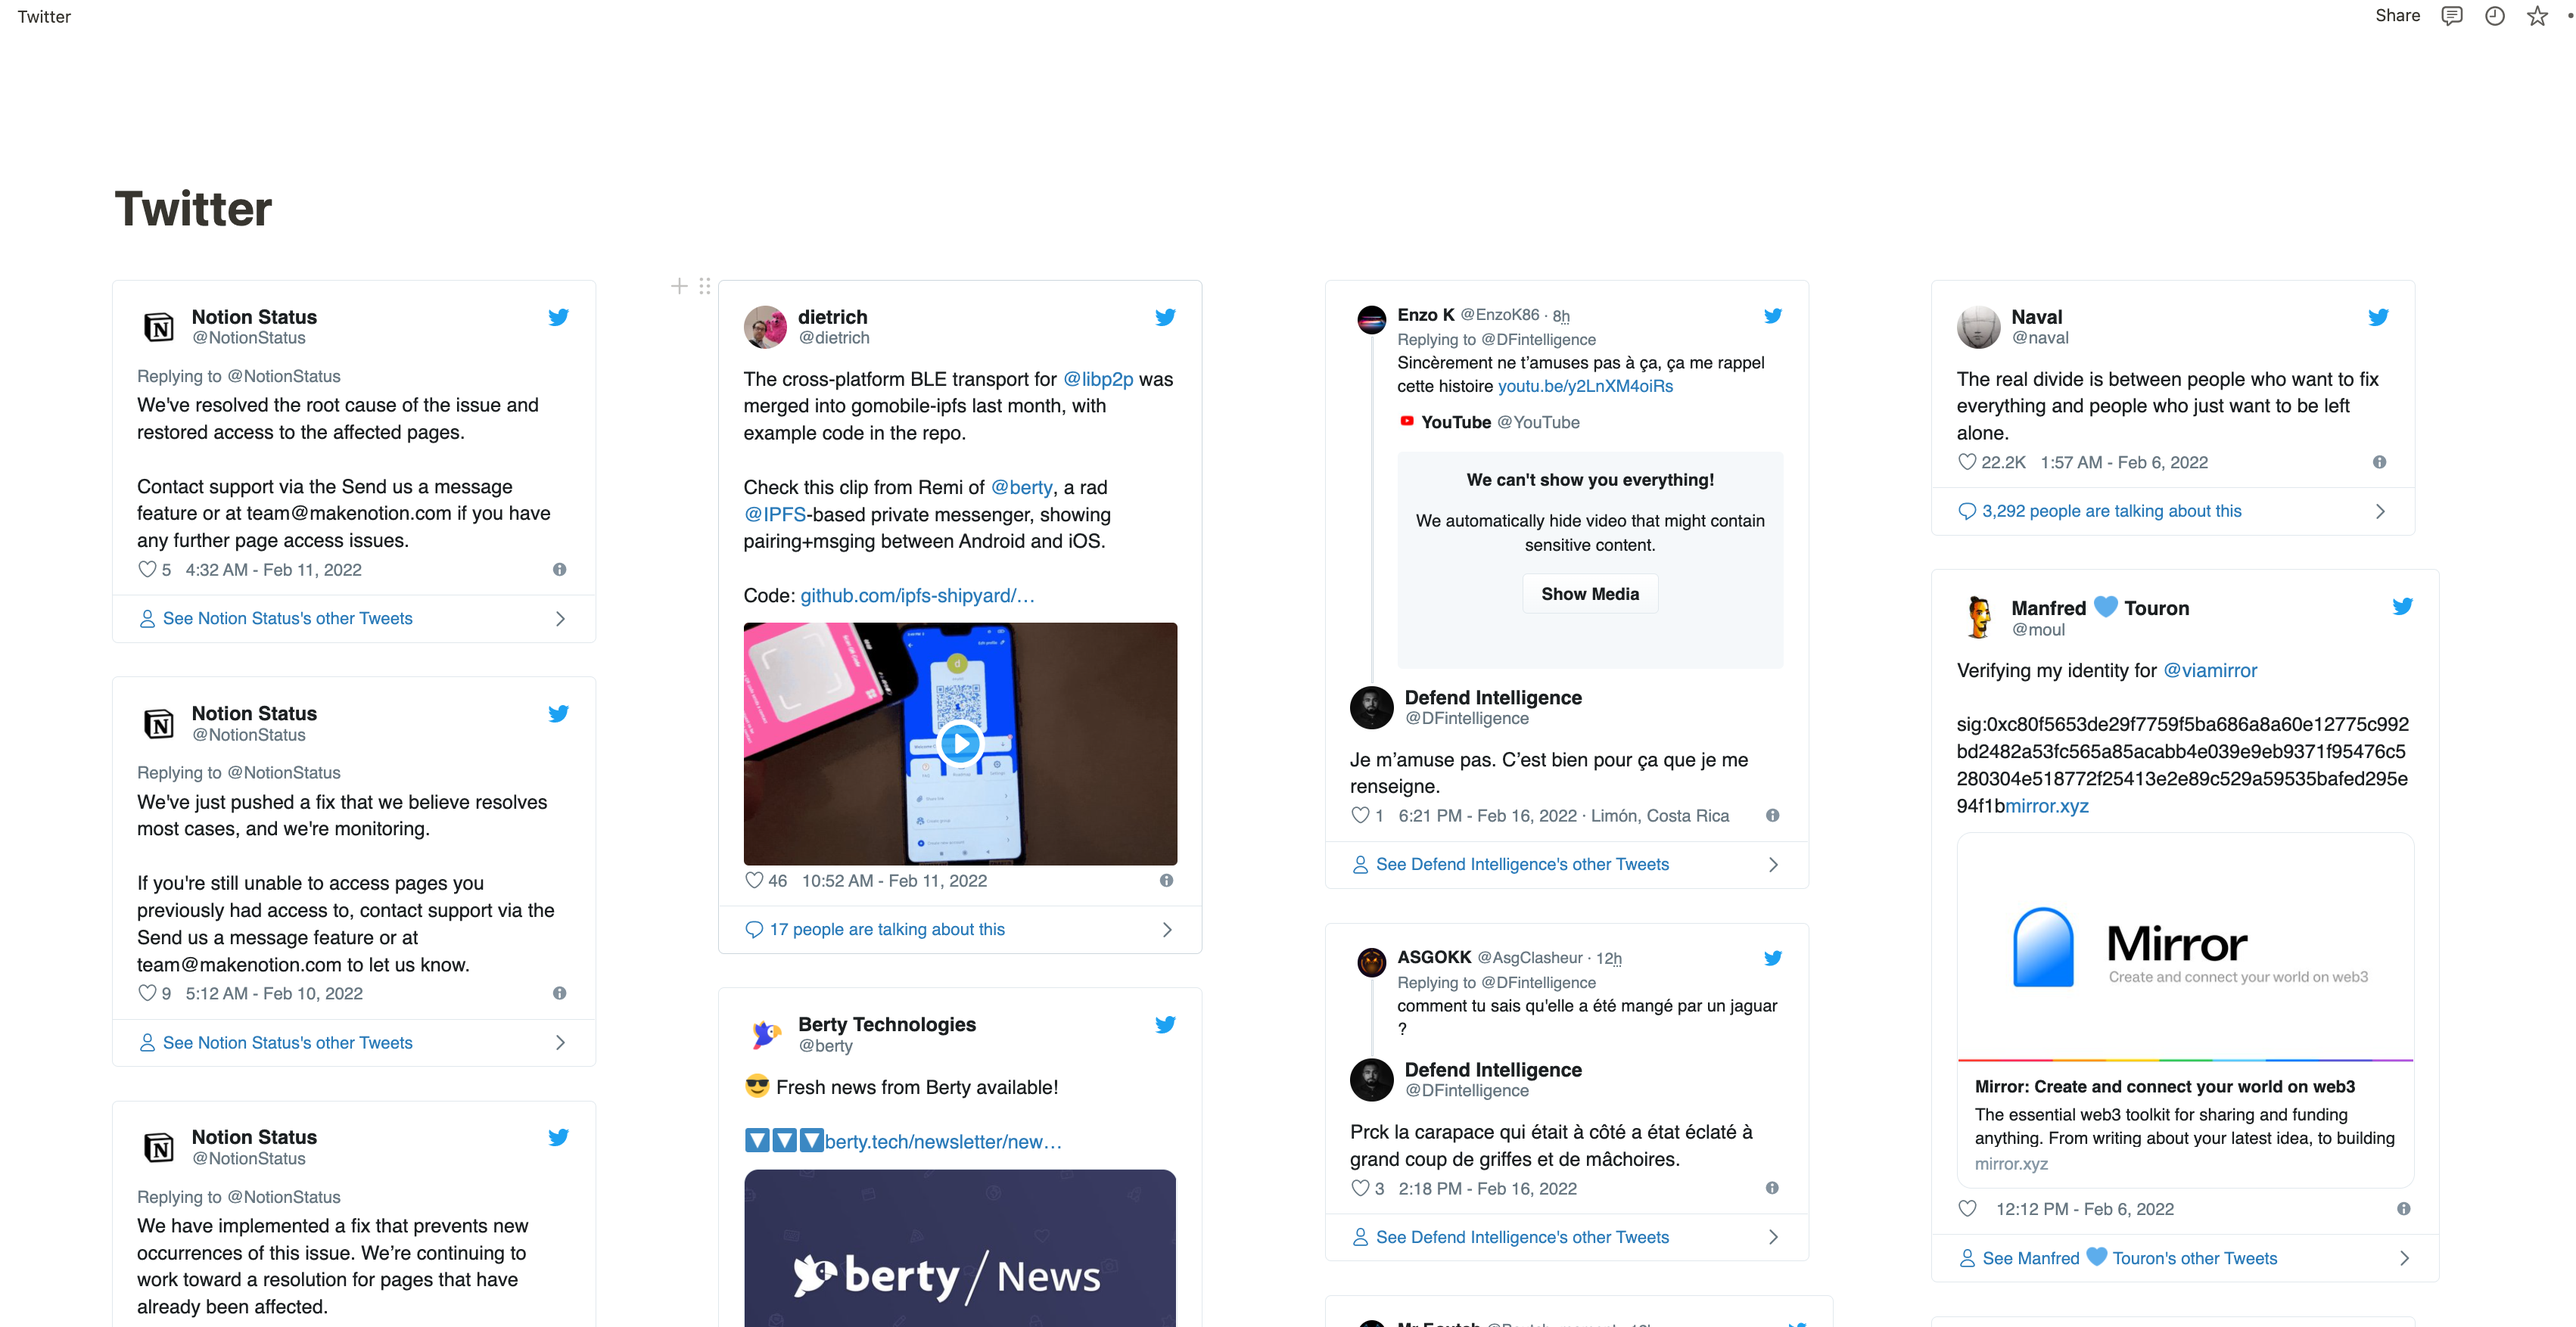
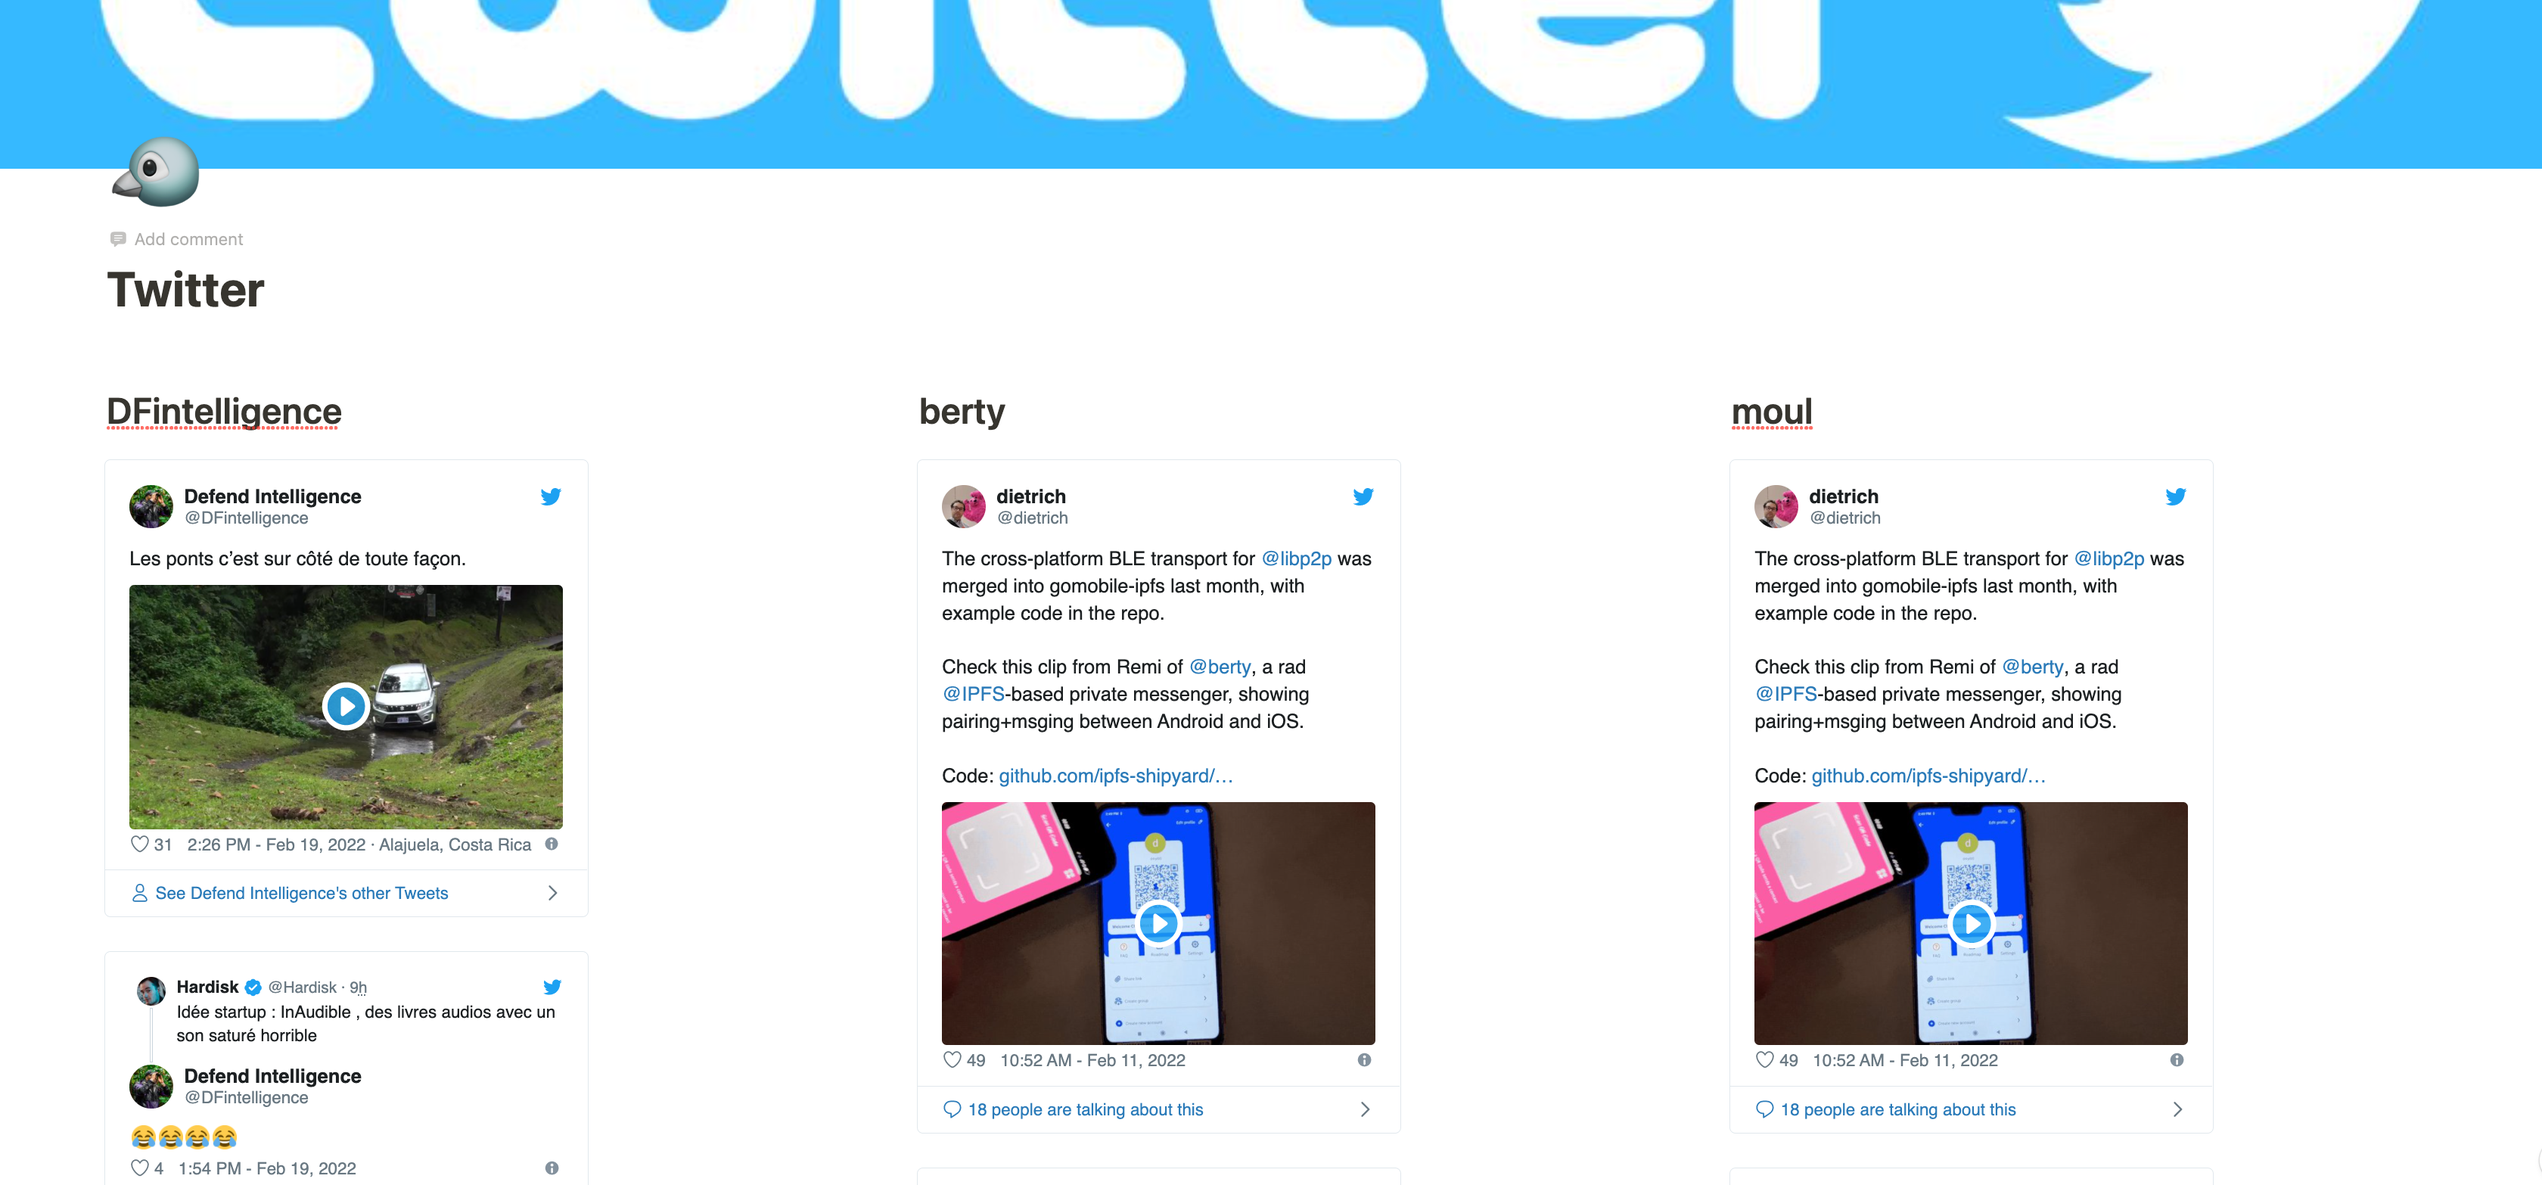
-v1.2

diff --git a/main.py b/main.py
@@ -1,3 +1,4 @@
+from turtle import color
 import requests
 import tweepy
 import json
@@ -15,32 +16,35 @@ headers = {
     "Authorization": "Bearer " + token
 }
 
-Usernames = ['NotionAPI','berty','DFintelligence','moul']
-
-
 def main():
 
     tweet_ids_by_user = []
 
-    ColumnIDs = getColumnIDs()
-
+    agg_Col = aggColumnUsername()
+    ColumnIDs = agg_Col[0]
+    Usernames = agg_Col[1]
+    
     for username in Usernames:
         tweet_ids_by_user.append(getTweet(username))
     
     for index,tweet_ids_list in enumerate(tweet_ids_by_user):
         for tweet in tweet_ids_list:
-            appendEmbed(tweet,Usernames[index],ColumnIDs[index])
-            
-"""
-# Appel de l'ensemble des blocks de la page via l'id de page    
+            Code = appendEmbed(tweet,Usernames[index],ColumnIDs[index])
+            print(Code)
 
+#Calling all the blocks of the page via the page id  
+"""
 def apiCall():
+
+    colomun_list_id = "314ce5cb-6882-49e0-8034-6d04ea360edb"
+
+    url_block_page = f"https://api.notion.com/v1/blocks/{colomun_list_id}/children"
 
     response = requests.request("GET", url_block_page, headers=headers)
 
     return json.loads(response.text)
 """
-#Met à jour le lien du tweet dans le block "embed" via son id (block_id)
+#Updates the link of the tweet in the block "embed" via its id (block_id)
 '''
 def updateEmbed():
     
@@ -52,7 +56,7 @@ def updateEmbed():
 
     return requests.request("PATCH", url, json=updateData, headers=headers)
 '''
-#Créer un nouveau block "embed" qui contient le lien vers le tweet
+#Create a new "embed" block that contains the link to the tweet
 
 def appendEmbed(tweet_ids,username,column_id):
 
@@ -71,16 +75,35 @@ def appendEmbed(tweet_ids,username,column_id):
         
     return ReturnCode
 
+#Function that checks if the column title is heading 1 and if the twitter username exists
+#if this is not the case the id of the column is not kept.  
+
+def aggColumnUsername():
+
+    agg_return = [[],[]]
+
+    ColumnIDs = getColumnIDs()
+    Usernames = getUsernames(ColumnIDs)
+
+    for index,username in enumerate(Usernames):
+
+        if username != "%wrong_type%" and checkTwitterUsername(username) == "user_exists":
+            agg_return[0].append(ColumnIDs[index])
+            agg_return[1].append(Usernames[index])
+
+    return agg_return
+        
+# Function which retrieves the columns id of the Notion page
 
 def getColumnIDs():
 
     column_id_return = []
-        #On récupére l'id du block "column_list" qui est un enfant de l'id de la page
+        #We get the id of the block "column_list" which is a child of the id of the page
     url_block_page_main = f"https://api.notion.com/v1/blocks/{main_page_id}/children"
 
     block_column_list_id = json.loads(requests.request("GET", url_block_page_main, headers=headers).text)
     block_column_list_id = block_column_list_id["results"][0]["id"]
-        #Puis on récupére l'id des x colonnes de la page
+         #Then we get the id of the x columns of the page
     url_block_page_column = f"https://api.notion.com/v1/blocks/{block_column_list_id}/children"
 
     columns_id = json.loads(requests.request("GET", url_block_page_column, headers=headers).text)
@@ -90,17 +113,45 @@ def getColumnIDs():
 
     return column_id_return
 
+# Function that retrieves the username in the column title (heading_1) of the Notion page 
+def getUsernames(columns_id):
 
+    username_return = []
+    
+    for column_id in columns_id:
+        url_block_column = f"https://api.notion.com/v1/blocks/{column_id}/children"
+        usernames = json.loads(requests.request("GET", url_block_column, headers=headers).text)
+            #If the type field of the first element of the column is a "heading_1" then we retrieve its content and add it to the table in return
+        if usernames["results"][0]["type"] == "heading_1":
+            username_return.append(usernames["results"][0]["heading_1"]["text"][0]["text"]["content"])
+            #Otherwise we add the string "%wrong_type%" in the return array.
+        else:
+            username_return.append("%wrong_type%")
+    return username_return
+
+# Function that checks if a Twitter user exists 
+
+def checkTwitterUsername(username): 
+
+    client = tweepy.Client(bearer_token=BEARER_TOKEN)
+    if not (client.get_user(username=username)).errors:
+        return 'user_exists'
+    else: 
+        print(client.get_user(username=username).errors[0]['detail'])
+        return 'User does not exist'
+
+#function that retrieves the id of a user's tweets  
 def getTweet(username):
 
     ids = []
 
     client = tweepy.Client(bearer_token=BEARER_TOKEN)
 
-        #On récupére l'id Twitter de l'utilisateur
+        #We get the user's Twitter id
+
     UserID = (client.get_user(username=username)).data.id
 
-        #On affiche ses 5 derniers tweets
+        #We display his last 5 tweets
     tweets = client.get_users_tweets(id=UserID, max_results=5)
     for tweet in tweets.data:
         ids.append(tweet.id)

diff --git a/CHANGELOG.md b/CHANGELOG.md
@@ -2,17 +2,17 @@
 
 ## v1.2
 
-** New Features **
+### New Features 
 - Recovering twitter usernames from column titles
 - Protection against errors caused by a Twitter username that does not exist and against column titles of the wrong type
 
-** Changed **
+### Changed
 - Update of the 'README.md' file 
 
-** Feature Change **
+### Feature Change **
 - Taking into account the number of columns in the page Notion in a dynamic way
 
-** Added: **
+### Added: **
 - Added "checkTwitterUsername" function that checks if a Twitter user exists 
 - Added "getUsernames" function that retrieves the username in the column title of the Notion page 
 - Added function "aggColumnUsername" which calls sub-functions that check that the username exists on twitter and that the title of the column is of type "heading_1
@@ -20,14 +20,14 @@
 
 ## v1.1
 
-** New Features **
+### New Features
 - Display of four twitter accounts on one page Notion
 
-** Changed **
+### Changed 
 - Changed of the "main" function to call the different functions and add the tweets in each column
 - Changed of the "appendEmbed" function so that it adds a block containing a tweet generated via the variables in parameters.
 
-** Added: **
+### Added: 
 - Added a "getTweet" function that retrieves the id of a user's tweets   
 - Added "getColumnIDs" function which retrieves the columns id of the Notion page
 - File ’README.md’
@@ -37,7 +37,7 @@
 
 Initial release.
 
-** Added: **
+### Added:
 - Added the "appendEmbed" function which adds a block of type "Embed" which contains the url of a tweet
 - Added the "apiCall" function which retrieves the content of the Notion page 
 - File ’__init__.py’

diff --git a/README.md b/README.md
@@ -6,7 +6,8 @@ Various scripts to edit a Notion based on external sources
 
 - [x] Retrieve tweets of a user with his id
 - [x] Saves tweets in columns on the dashboard notion
-- [ ] Automatically retrieve the user's name from the notion dashboard
+- [x] Automatically retrieve the user's name from the notion dashboard
+- [x] Taking into account the number of columns in the page Notion in a dynamic way
 - [ ] Reverse the order of tweets on the notion dashboard (Newest first)
 - [ ] Other suggestions
 
